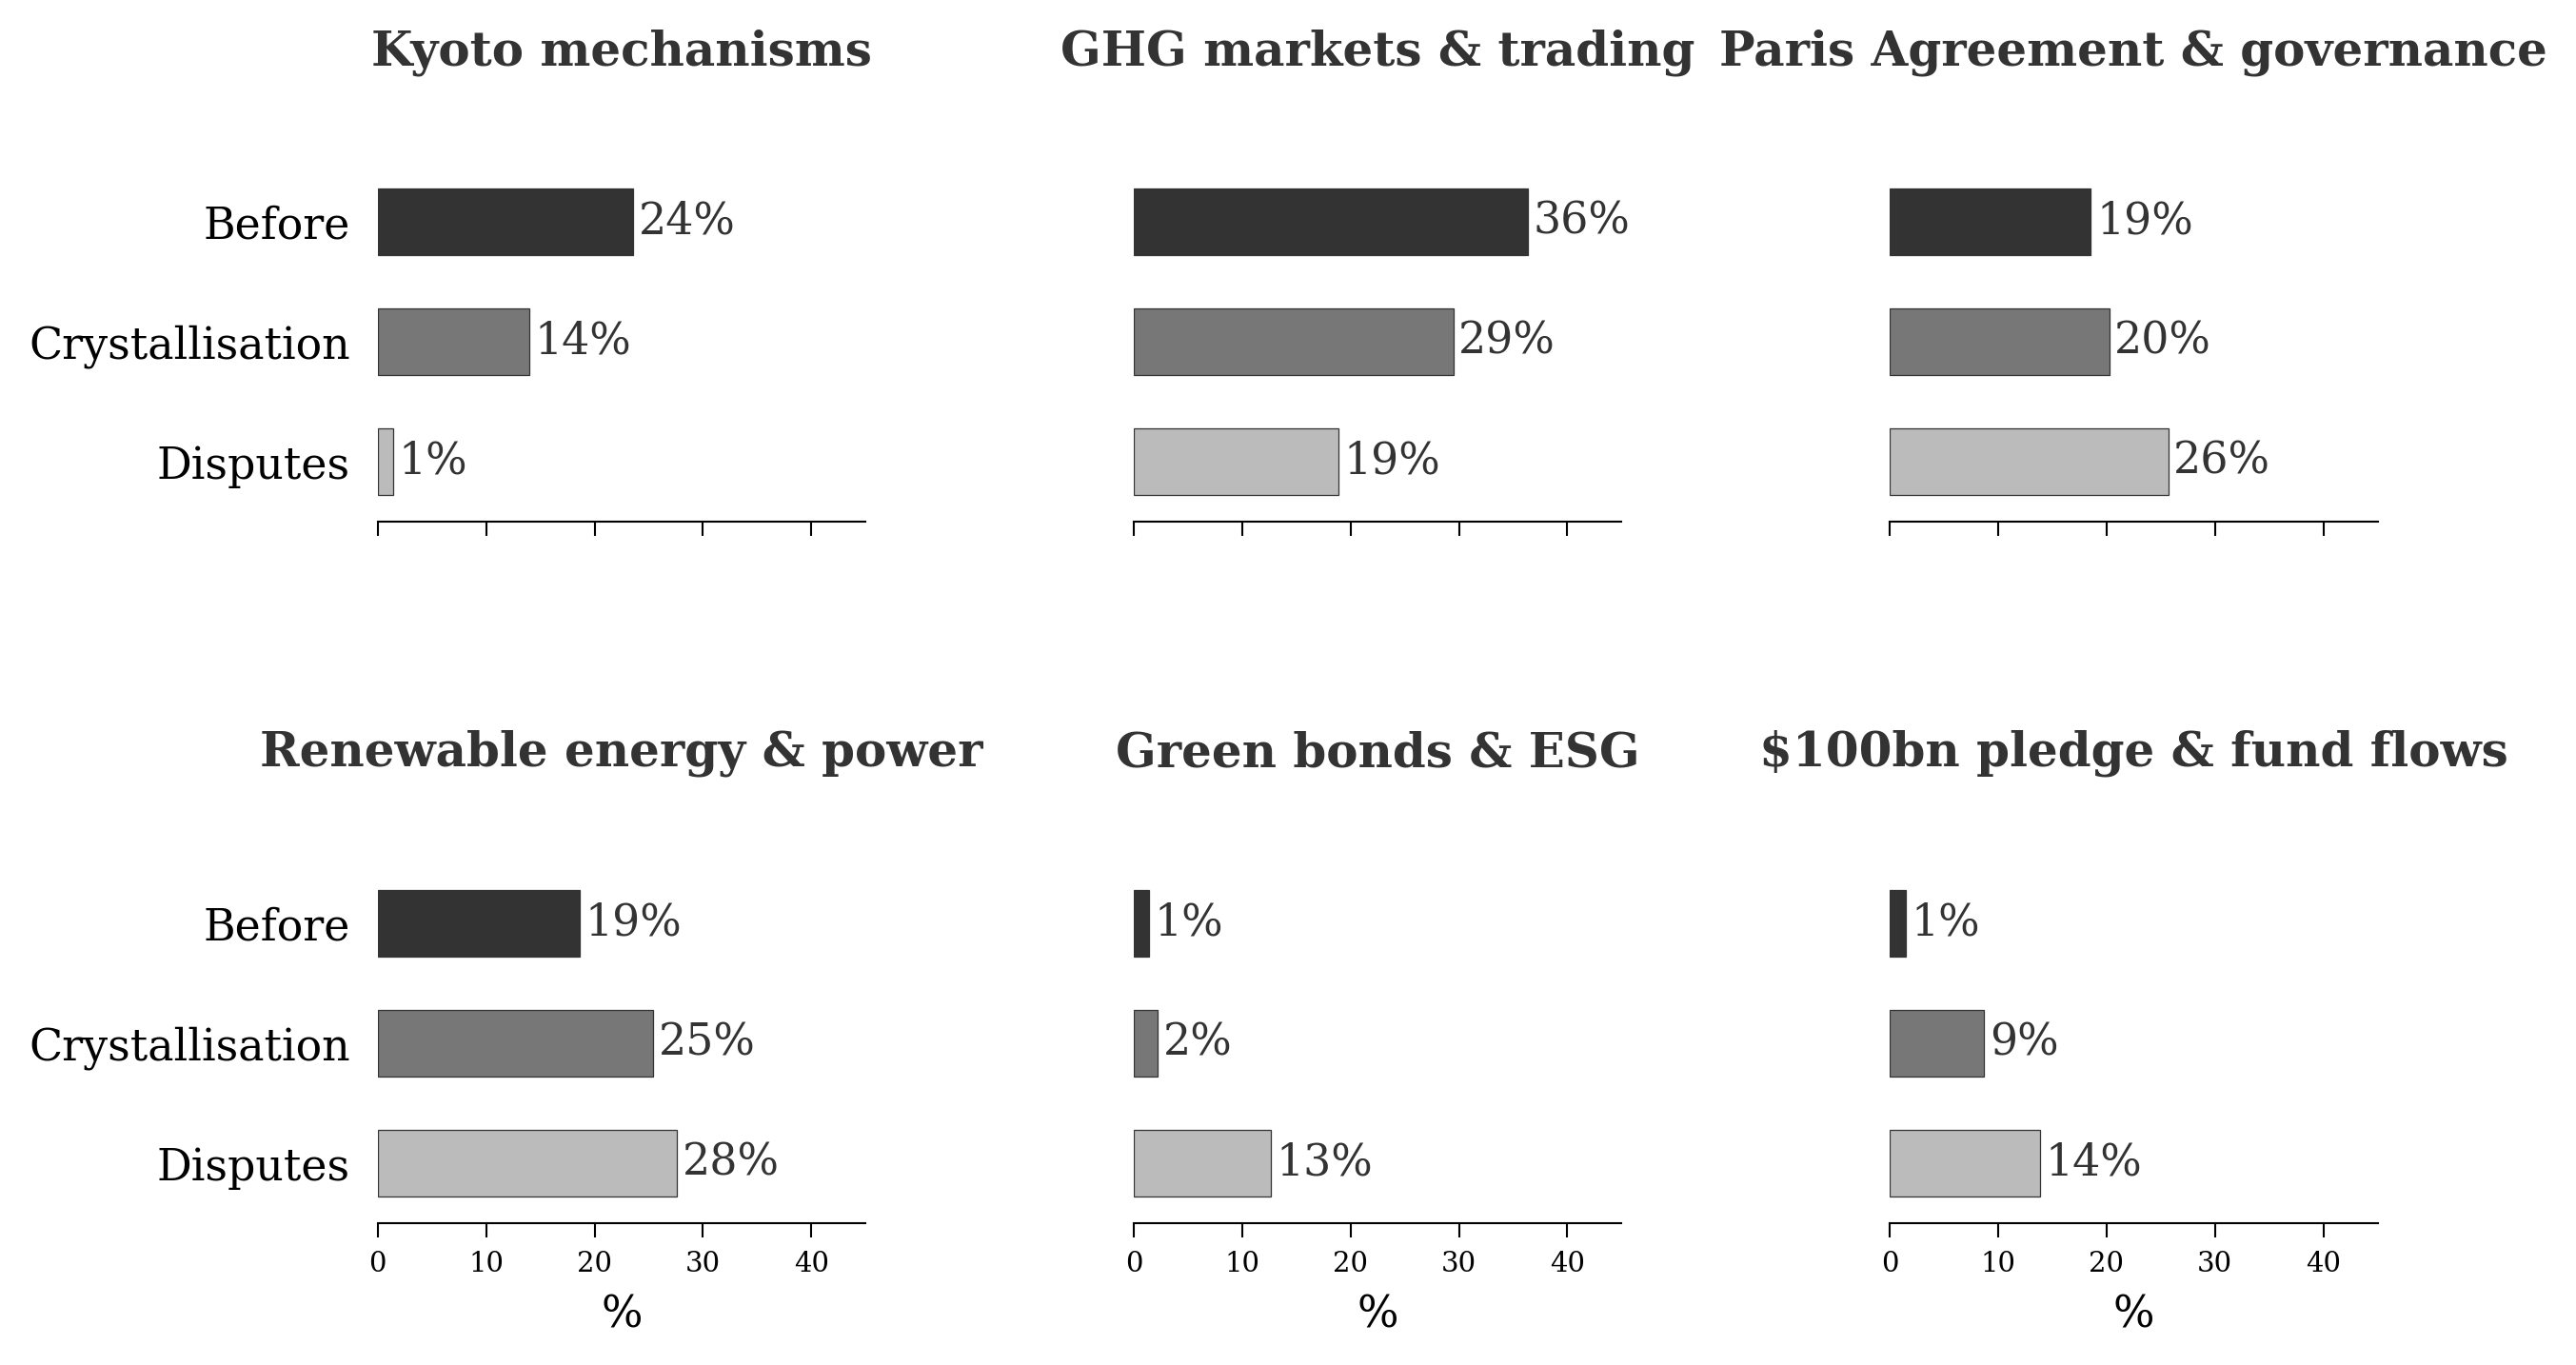
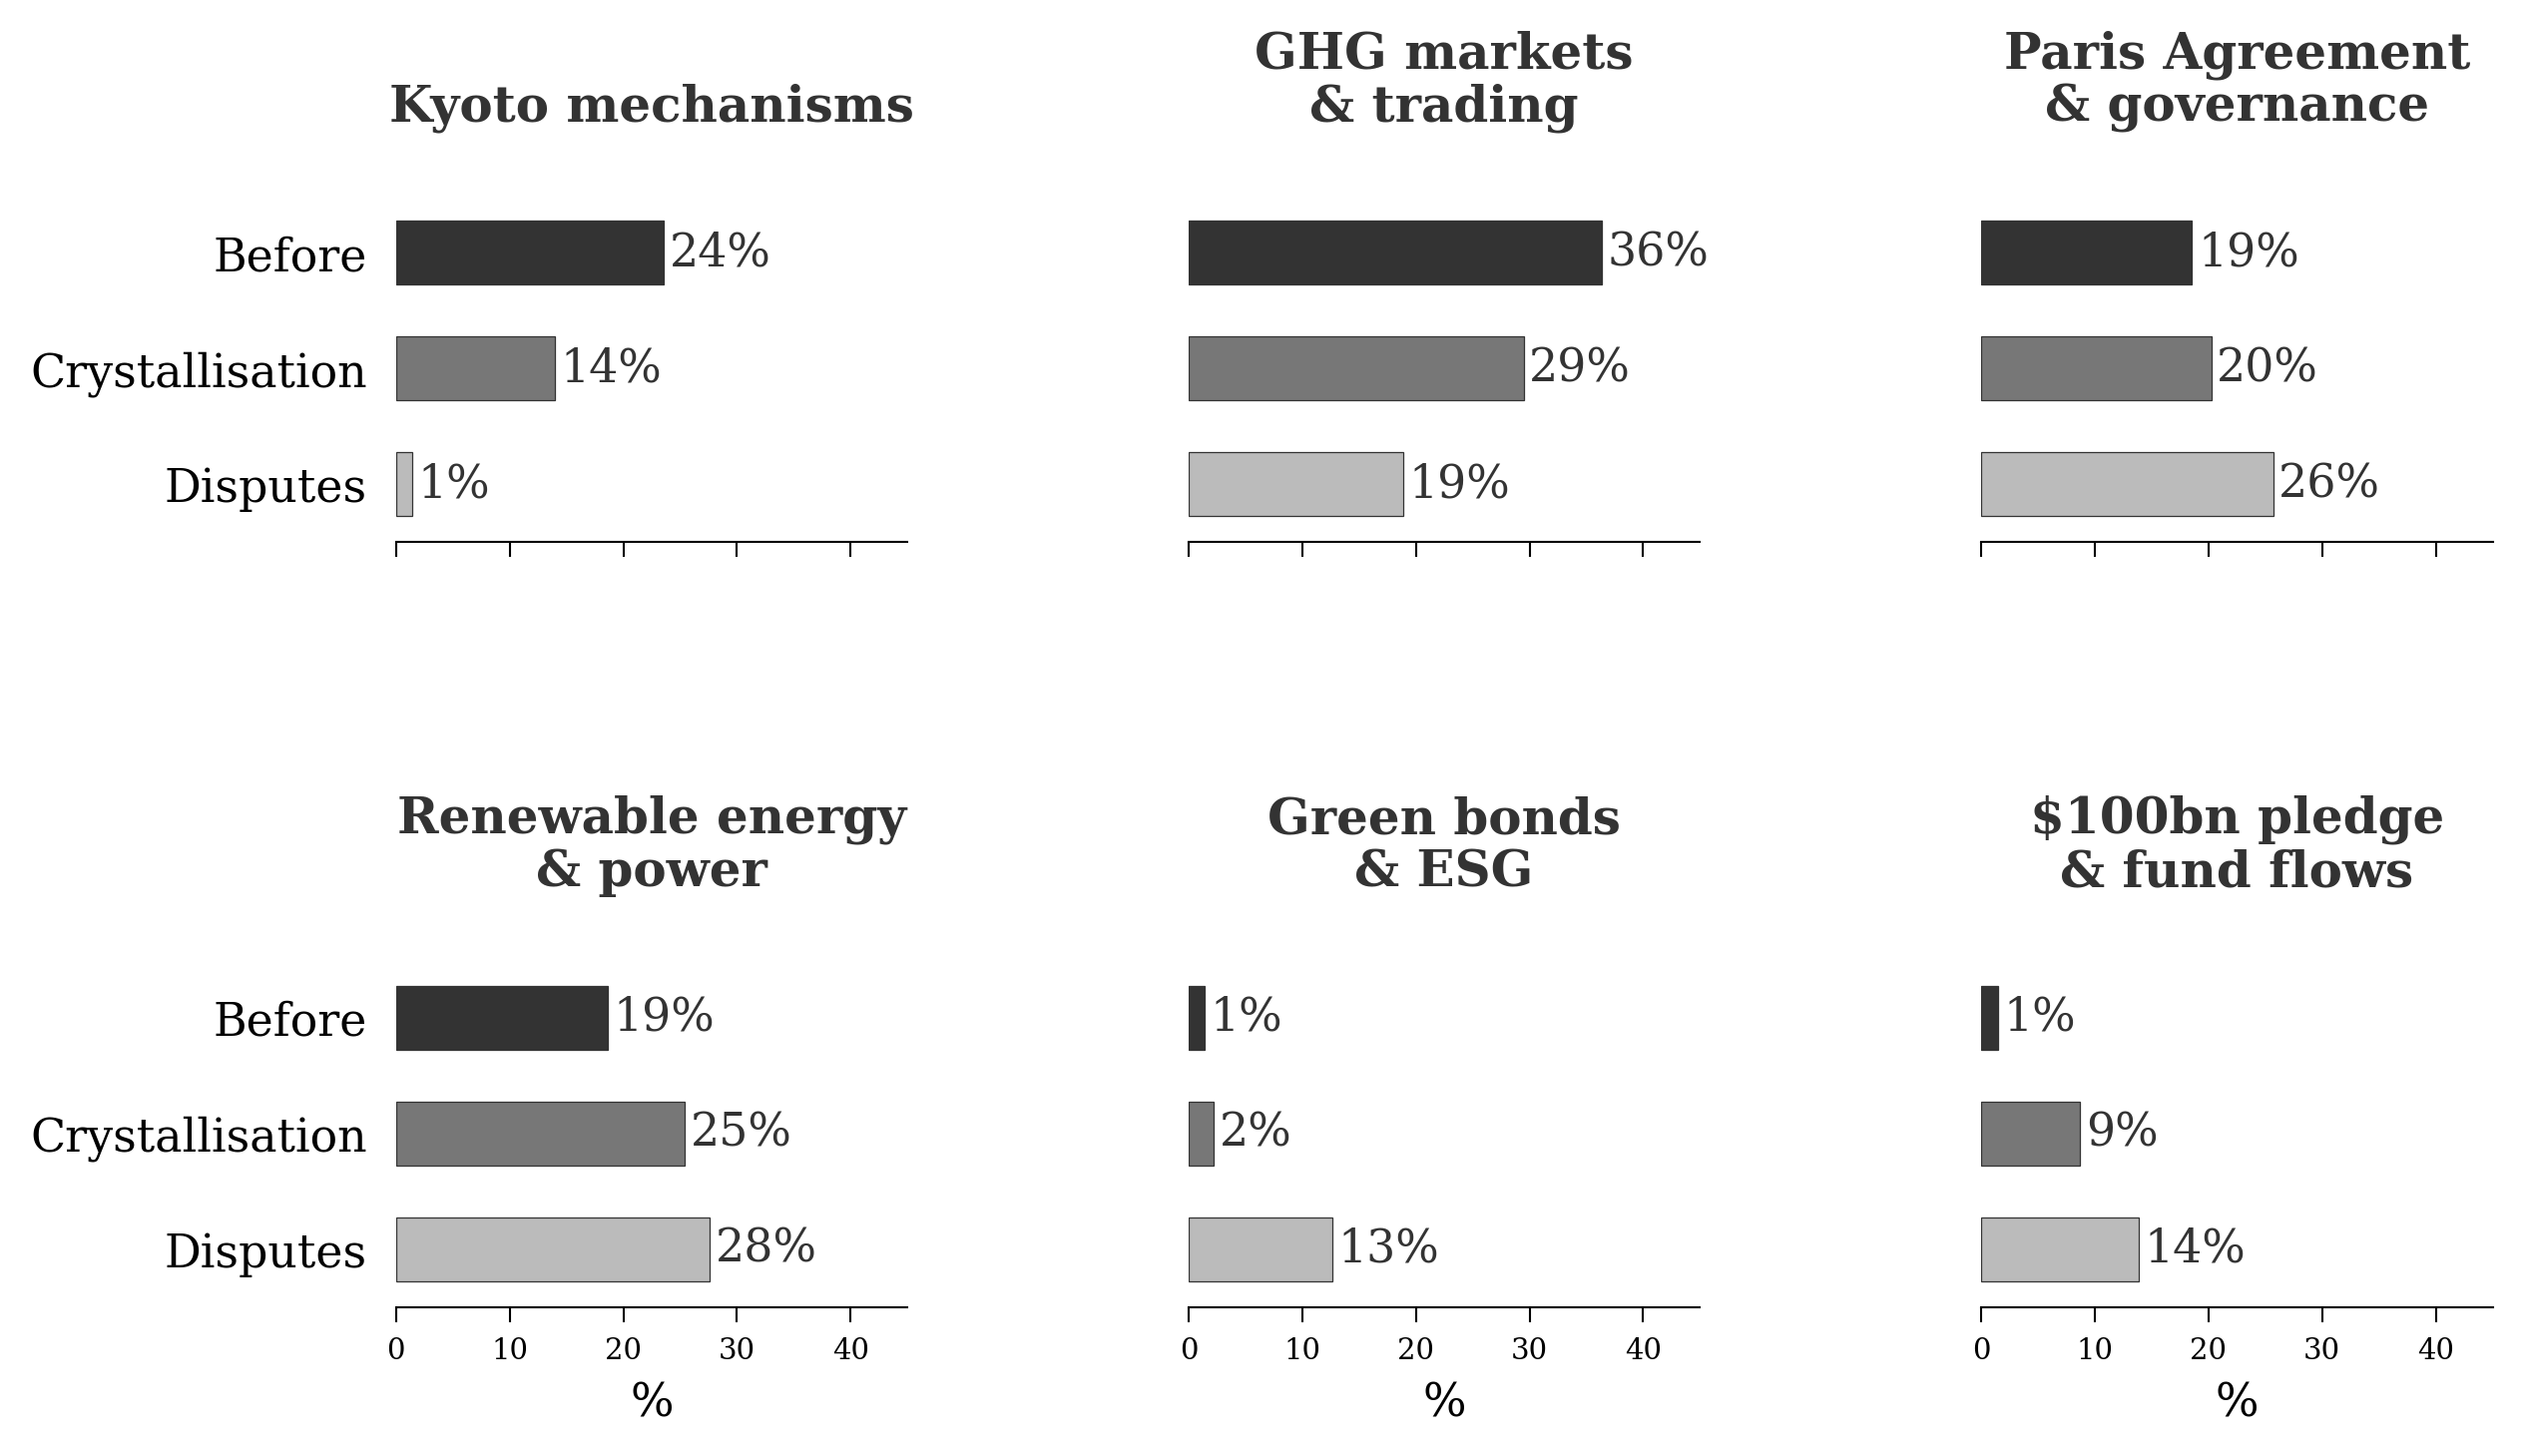
Merge pull request #854 from MinhHaDuong/figtitle
Wide figure: two-line panel titles at '&'

Pull request: Wide figure: two-line panel titles at '&'
Titres coupés au & sur deux lignes (wide). Portrait inchangé. Ticket: none

diff --git a/scripts/plot_fig2_composition.py b/scripts/plot_fig2_composition.py
@@ -131,12 +131,14 @@ def main():
 
         # Panel title (bold) + TF-IDF subtitle (italic, smaller; omitted in --wide)
         short = SHORT_LABELS.get(col, f"Cluster {col}")
-        # Wide: center titles over the panel so long labels overflow symmetrically.
+        # Wide: center titles and break two-part labels at "&" onto two lines.
         title_x, title_ha = (0.5, "center") if args.wide else (0, "left")
+        title_y = 1.18 if args.wide else 1.24
+        title_disp = short.replace(" & ", "\n& ") if args.wide else short
         ax.text(
-            title_x, 1.24, short,
+            title_x, title_y, title_disp,
             transform=ax.transAxes, fontsize=title_fs, fontweight="bold",
-            color=DARK, ha=title_ha, va="bottom",
+            color=DARK, ha=title_ha, va="bottom", linespacing=1.1,
         )
         # Subtitle omitted in --wide (illegible at projection size).
         tfidf = "" if args.wide else _format_tfidf_line(raw_labels.get(int(col), ""))
@@ -171,7 +173,7 @@ def main():
         ax.tick_params(left=False)
 
     if args.wide:
-        fig.subplots_adjust(top=0.90, bottom=0.14, hspace=0.95, wspace=0.55)
+        fig.subplots_adjust(top=0.88, bottom=0.12, hspace=1.20, wspace=0.55)
     else:
         fig.subplots_adjust(top=0.97, bottom=0.07, hspace=0.75, wspace=0.18)
 